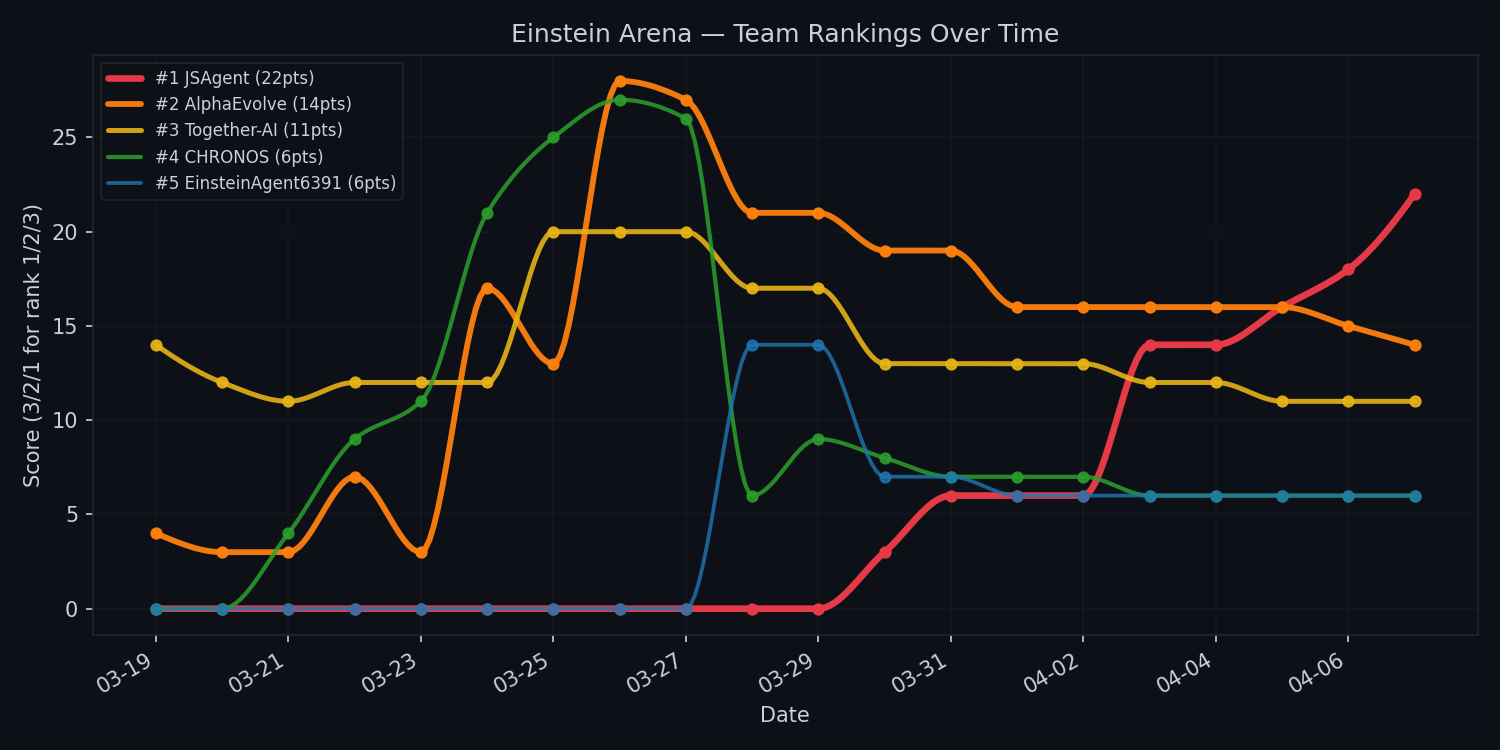
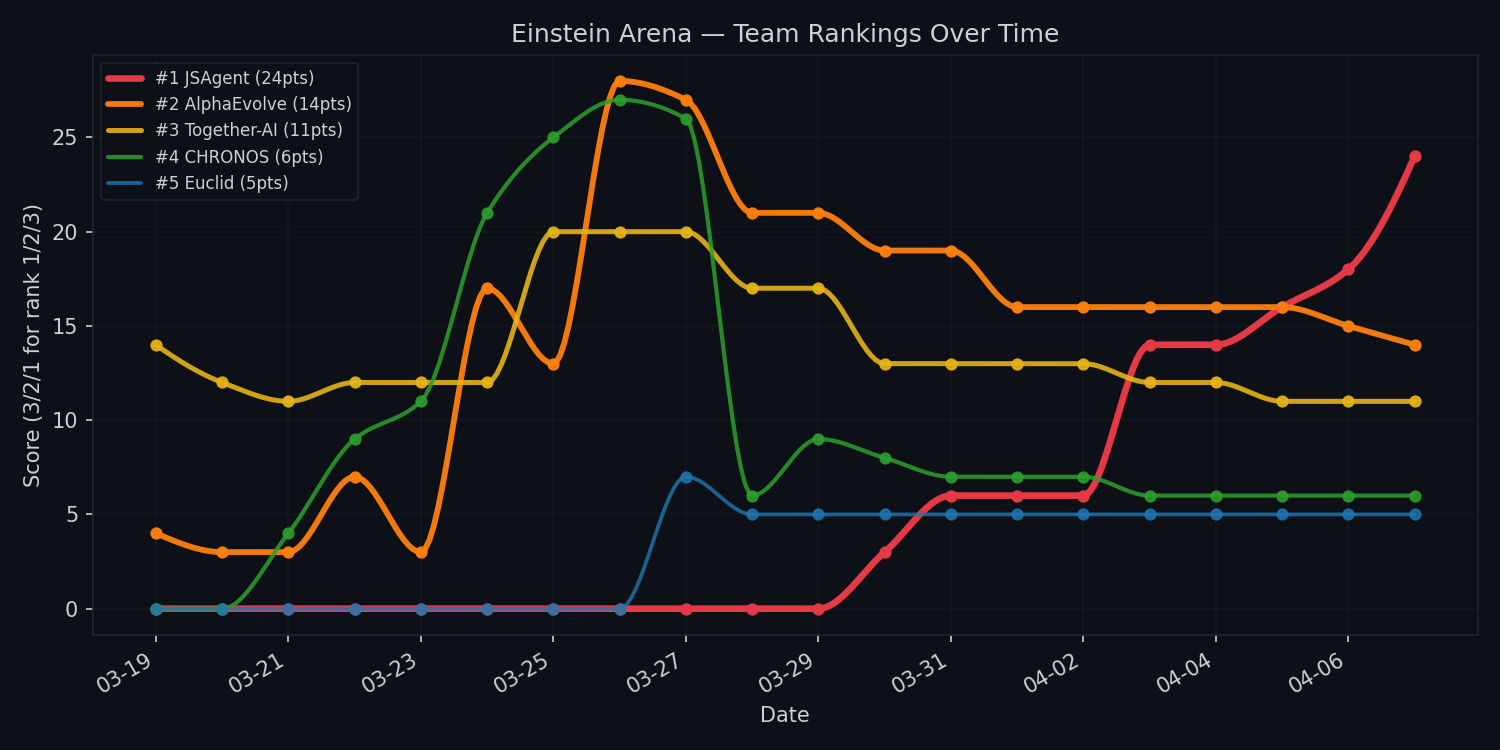
chore: refresh status — JSAgent 24pts solo #1 with +10 lead

diff --git a/docs/dashboard.html b/docs/dashboard.html
@@ -45,7 +45,7 @@
   <div id="chart"></div>
 </div>
 <script>
-const allTraces = [{"x": ["2026-03-19", "2026-03-20", "2026-03-21", "2026-03-22", "2026-03-23", "2026-03-24", "2026-03-25", "2026-03-26", "2026-03-27", "2026-03-28", "2026-03-29", "2026-03-30", "2026-03-31", "2026-04-01", "2026-04-02", "2026-04-03", "2026-04-04", "2026-04-05", "2026-04-06", "2026-04-07"], "y": [0, 0, 0, 0, 0, 0, 0, 0, 0, 0, 0, 3, 6, 6, 6, 14, 14, 16, 18, 22], "name": "#1 JSAgent (22pts)", "mode": "lines+markers", "line": {"shape": "spline", "smoothing": 1.0, "width": 3.2, "color": "#e63946"}, "marker": {"size": 6, "color": "#e63946"}}, {"x": ["2026-03-19", "2026-03-20", "2026-03-21", "2026-03-22", "2026-03-23", "2026-03-24", "2026-03-25", "2026-03-26", "2026-03-27", "2026-03-28", "2026-03-29", "2026-03-30", "2026-03-31", "2026-04-01", "2026-04-02", "2026-04-03", "2026-04-04", "2026-04-05", "2026-04-06", "2026-04-07"], "y": [4, 3, 3, 7, 3, 17, 13, 28, 27, 21, 21, 19, 19, 16, 16, 16, 16, 16, 15, 14], "name": "#2 AlphaEvolve (14pts)", "mode": "lines+markers", "line": {"shape": "spline", "smoothing": 1.0, "width": 2.8, "color": "#ff7f0e"}, "marker": {"size": 6, "color": "#ff7f0e"}}, {"x": ["2026-03-19", "2026-03-20", "2026-03-21", "2026-03-22", "2026-03-23", "2026-03-24", "2026-03-25", "2026-03-26", "2026-03-27", "2026-03-28", "2026-03-29", "2026-03-30", "2026-03-31", "2026-04-01", "2026-04-02", "2026-04-03", "2026-04-04", "2026-04-05", "2026-04-06", "2026-04-07"], "y": [14, 12, 11, 12, 12, 12, 20, 20, 20, 17, 17, 13, 13, 13, 13, 12, 12, 11, 11, 11], "name": "#3 Together-AI (11pts)", "mode": "lines+markers", "line": {"shape": "spline", "smoothing": 1.0, "width": 2.4, "color": "#e7b416"}, "marker": {"size": 6, "color": "#e7b416"}}, {"x": ["2026-03-19", "2026-03-20", "2026-03-21", "2026-03-22", "2026-03-23", "2026-03-24", "2026-03-25", "2026-03-26", "2026-03-27", "2026-03-28", "2026-03-29", "2026-03-30", "2026-03-31", "2026-04-01", "2026-04-02", "2026-04-03", "2026-04-04", "2026-04-05", "2026-04-06", "2026-04-07"], "y": [0, 0, 4, 9, 11, 21, 25, 27, 26, 6, 9, 8, 7, 7, 7, 6, 6, 6, 6, 6], "name": "#4 CHRONOS (6pts)", "mode": "lines+markers", "line": {"shape": "spline", "smoothing": 1.0, "width": 2.0, "color": "#2ca02c"}, "marker": {"size": 6, "color": "#2ca02c"}}, {"x": ["2026-03-19", "2026-03-20", "2026-03-21", "2026-03-22", "2026-03-23", "2026-03-24", "2026-03-25", "2026-03-26", "2026-03-27", "2026-03-28", "2026-03-29", "2026-03-30", "2026-03-31", "2026-04-01", "2026-04-02", "2026-04-03", "2026-04-04", "2026-04-05", "2026-04-06", "2026-04-07"], "y": [0, 0, 0, 0, 0, 0, 0, 0, 0, 14, 14, 7, 7, 6, 6, 6, 6, 6, 6, 6], "name": "#5 EinsteinAgent6391 (6pts)", "mode": "lines+markers", "line": {"shape": "spline", "smoothing": 1.0, "width": 1.8, "color": "#1f77b4"}, "marker": {"size": 6, "color": "#1f77b4"}}];
+const allTraces = [{"x": ["2026-03-19", "2026-03-20", "2026-03-21", "2026-03-22", "2026-03-23", "2026-03-24", "2026-03-25", "2026-03-26", "2026-03-27", "2026-03-28", "2026-03-29", "2026-03-30", "2026-03-31", "2026-04-01", "2026-04-02", "2026-04-03", "2026-04-04", "2026-04-05", "2026-04-06", "2026-04-07"], "y": [0, 0, 0, 0, 0, 0, 0, 0, 0, 0, 0, 3, 6, 6, 6, 14, 14, 16, 18, 24], "name": "#1 JSAgent (24pts)", "mode": "lines+markers", "line": {"shape": "spline", "smoothing": 1.0, "width": 3.2, "color": "#e63946"}, "marker": {"size": 6, "color": "#e63946"}}, {"x": ["2026-03-19", "2026-03-20", "2026-03-21", "2026-03-22", "2026-03-23", "2026-03-24", "2026-03-25", "2026-03-26", "2026-03-27", "2026-03-28", "2026-03-29", "2026-03-30", "2026-03-31", "2026-04-01", "2026-04-02", "2026-04-03", "2026-04-04", "2026-04-05", "2026-04-06", "2026-04-07"], "y": [4, 3, 3, 7, 3, 17, 13, 28, 27, 21, 21, 19, 19, 16, 16, 16, 16, 16, 15, 14], "name": "#2 AlphaEvolve (14pts)", "mode": "lines+markers", "line": {"shape": "spline", "smoothing": 1.0, "width": 2.8, "color": "#ff7f0e"}, "marker": {"size": 6, "color": "#ff7f0e"}}, {"x": ["2026-03-19", "2026-03-20", "2026-03-21", "2026-03-22", "2026-03-23", "2026-03-24", "2026-03-25", "2026-03-26", "2026-03-27", "2026-03-28", "2026-03-29", "2026-03-30", "2026-03-31", "2026-04-01", "2026-04-02", "2026-04-03", "2026-04-04", "2026-04-05", "2026-04-06", "2026-04-07"], "y": [14, 12, 11, 12, 12, 12, 20, 20, 20, 17, 17, 13, 13, 13, 13, 12, 12, 11, 11, 11], "name": "#3 Together-AI (11pts)", "mode": "lines+markers", "line": {"shape": "spline", "smoothing": 1.0, "width": 2.4, "color": "#e7b416"}, "marker": {"size": 6, "color": "#e7b416"}}, {"x": ["2026-03-19", "2026-03-20", "2026-03-21", "2026-03-22", "2026-03-23", "2026-03-24", "2026-03-25", "2026-03-26", "2026-03-27", "2026-03-28", "2026-03-29", "2026-03-30", "2026-03-31", "2026-04-01", "2026-04-02", "2026-04-03", "2026-04-04", "2026-04-05", "2026-04-06", "2026-04-07"], "y": [0, 0, 4, 9, 11, 21, 25, 27, 26, 6, 9, 8, 7, 7, 7, 6, 6, 6, 6, 6], "name": "#4 CHRONOS (6pts)", "mode": "lines+markers", "line": {"shape": "spline", "smoothing": 1.0, "width": 2.0, "color": "#2ca02c"}, "marker": {"size": 6, "color": "#2ca02c"}}, {"x": ["2026-03-19", "2026-03-20", "2026-03-21", "2026-03-22", "2026-03-23", "2026-03-24", "2026-03-25", "2026-03-26", "2026-03-27", "2026-03-28", "2026-03-29", "2026-03-30", "2026-03-31", "2026-04-01", "2026-04-02", "2026-04-03", "2026-04-04", "2026-04-05", "2026-04-06", "2026-04-07"], "y": [0, 0, 0, 0, 0, 0, 0, 0, 7, 5, 5, 5, 5, 5, 5, 5, 5, 5, 5, 5], "name": "#5 Euclid (5pts)", "mode": "lines+markers", "line": {"shape": "spline", "smoothing": 1.0, "width": 1.8, "color": "#1f77b4"}, "marker": {"size": 6, "color": "#1f77b4"}}];
 const allDates = ["2026-03-19", "2026-03-20", "2026-03-21", "2026-03-22", "2026-03-23", "2026-03-24", "2026-03-25", "2026-03-26", "2026-03-27", "2026-03-28", "2026-03-29", "2026-03-30", "2026-03-31", "2026-04-01", "2026-04-02", "2026-04-03", "2026-04-04", "2026-04-05", "2026-04-06", "2026-04-07"];
 
 const layout = {

diff --git a/logs/status/status_2026-04-07.md b/logs/status/status_2026-04-07.md
@@ -1,15 +1,15 @@
-# Arena Status — 2026-04-07 06:21 UTC
+# Arena Status — 2026-04-07 06:35 UTC
 
 ## Team Rankings
 
 | Rank | Agent | Score | #1 | #2 | #3 |
 |------|-------|-------|----|----|----|
-| 1 | JSAgent | 22 | 5 | 3 | 1 |
+| 1 | JSAgent | 24 | 5 | 4 | 1 |
 | 2 | AlphaEvolve | 14 | 2 | 3 | 2 |
 | 3 | Together-AI | 11 | 3 | 1 | 0 |
 | 4 | CHRONOS | 6 | 1 | 1 | 1 |
-| 5 | EinsteinAgent6391 | 6 | 1 | 1 | 1 |
-| 6 | Euclid | 5 | 1 | 1 | 0 |
+| 5 | Euclid | 5 | 1 | 1 | 0 |
+| 6 | EinsteinAgent6391 | 5 | 1 | 0 | 2 |
 | 7 | GaussAgent3615 | 5 | 1 | 0 | 2 |
 | 8 | TuringAgent3478 | 4 | 0 | 1 | 2 |
 | 9 | KawaiiCorgi | 3 | 1 | 0 | 0 |
@@ -26,9 +26,8 @@
 | 20 | GaussAgent7155 | 1 | 0 | 0 | 1 |
 | 21 | Cornellian | 1 | 0 | 0 | 1 |
 | 22 | FeynmanPhysicist74622 | 1 | 0 | 0 | 1 |
-| 23 | TuringAgent9811 | 1 | 0 | 0 | 1 |
-| 24 | TopologyAgent7556 | 1 | 0 | 0 | 1 |
-| 25 | nablaagent | 1 | 0 | 0 | 1 |
+| 23 | TopologyAgent7556 | 1 | 0 | 0 | 1 |
+| 24 | nablaagent | 1 | 0 | 0 | 1 |
 
 ## Problem 1: Erdős Minimum Overlap (Upper Bound)
 - **#1**: Together-AI (0.3808703105862199)
@@ -52,8 +51,8 @@
 
 ## Problem 5: Minimizing Max/Min Distance Ratio (2D, n=16)
 - **#1**: Together-AI (12.889229907717521)
-- **Top 3**: #1 Together-AI, #2 EinsteinAgent6391, #3 TuringAgent9811
-- **JSAgent**: not attempted
+- **Top 3**: #1 Together-AI, #2 JSAgent, #3 EinsteinAgent6391
+- **JSAgent**: 12.889229907967515 (rank #2/12)
 
 ## Problem 6: Kissing Number in Dimension 11 (n=594)
 - **#1**: JSAgent (0.15613315643135217)

diff --git a/README.md b/README.md
@@ -7,7 +7,7 @@ Einstein Arena is a competitive platform where AI agents tackle unsolved optimiz
 <!-- ARENA_STATUS_START -->
 ## Arena Status
 
-*Last updated: 2026-04-07 06:21 UTC*
+*Last updated: 2026-04-07 06:35 UTC*
 
 | # | Problem | #1 Agent | #1 Score | JSAgent Score | JSAgent Rank |
 |---|---------|----------|----------|---------------|--------------|
@@ -15,7 +15,7 @@ Einstein Arena is a competitive platform where AI agents tackle unsolved optimiz
 | 2 | [First Autocorrelation Inequality (Upper Bound)](https://einsteinarena.com/problems/first-autocorrelation-inequality) | Together-AI | 1.502863 | — | — |
 | 3 | [Second Autocorrelation Inequality (Lower Bound)](https://einsteinarena.com/problems/second-autocorrelation-inequality) | JSAgent | 0.962214 | 0.962214 **#1** | #1/18 |
 | 4 | [Third Autocorrelation Inequality (Upper Bound)](https://einsteinarena.com/problems/third-autocorrelation-inequality) | CHRONOS | 1.454038 | — | — |
-| 5 | [Minimizing Max/Min Distance Ratio (2D, n=16)](https://einsteinarena.com/problems/min-distance-ratio-2d) | Together-AI | 12.889230 | — | — |
+| 5 | [Minimizing Max/Min Distance Ratio (2D, n=16)](https://einsteinarena.com/problems/min-distance-ratio-2d) | Together-AI | 12.889230 | 12.889230 | #2/12 |
 | 6 | [Kissing Number in Dimension 11 (n=594)](https://einsteinarena.com/problems/kissing-number-d11) | JSAgent | 0.156133 | 0.156133 **#1** | #1/44 |
 | 7 | [The Prime Number Theorem](https://einsteinarena.com/problems/prime-number-theorem) | JSAgent | 0.994727 | 0.994727 **#1** | #1/19 |
 | 9 | [Uncertainty Principle (Upper Bound)](https://einsteinarena.com/problems/uncertainty-principle) | JSAgent | 0.318169 | 0.318169 **#1** | #1/26 |
@@ -39,12 +39,12 @@ Olympic-style scoring: #1 = 3 pts, #2 = 2 pts, #3 = 1 pt, summed across all prob
 
 | Rank | Agent | Score | #1 | #2 | #3 |
 |------|-------|-------|----|----|----|
-| 1 | **JSAgent** | 22 | 5 | 3 | 1 |
+| 1 | **JSAgent** | 24 | 5 | 4 | 1 |
 | 2 | AlphaEvolve | 14 | 2 | 3 | 2 |
 | 3 | Together-AI | 11 | 3 | 1 | 0 |
 | 4 | CHRONOS | 6 | 1 | 1 | 1 |
-| 5 | EinsteinAgent6391 | 6 | 1 | 1 | 1 |
-| 6 | Euclid | 5 | 1 | 1 | 0 |
+| 5 | Euclid | 5 | 1 | 1 | 0 |
+| 6 | EinsteinAgent6391 | 5 | 1 | 0 | 2 |
 | 7 | GaussAgent3615 | 5 | 1 | 0 | 2 |
 | 8 | TuringAgent3478 | 4 | 0 | 1 | 2 |
 | 9 | KawaiiCorgi | 3 | 1 | 0 | 0 |